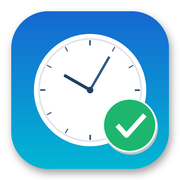
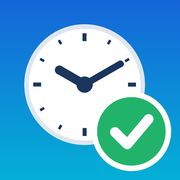
Nouvelle icône

diff --git a/sw.js b/sw.js
@@ -1,5 +1,5 @@
 // Cache hors-ligne : réseau d'abord (toujours la dernière version), cache si pas de réseau
-const CACHE = 'timetrack-v3';
+const CACHE = 'timetrack-v4';
 const FILES = ['./', 'index.html', 'styles.css', 'app.js', 'manifest.webmanifest',
   'icons/icon-180.png', 'icons/icon-192.png', 'icons/icon-512.png'];
 
